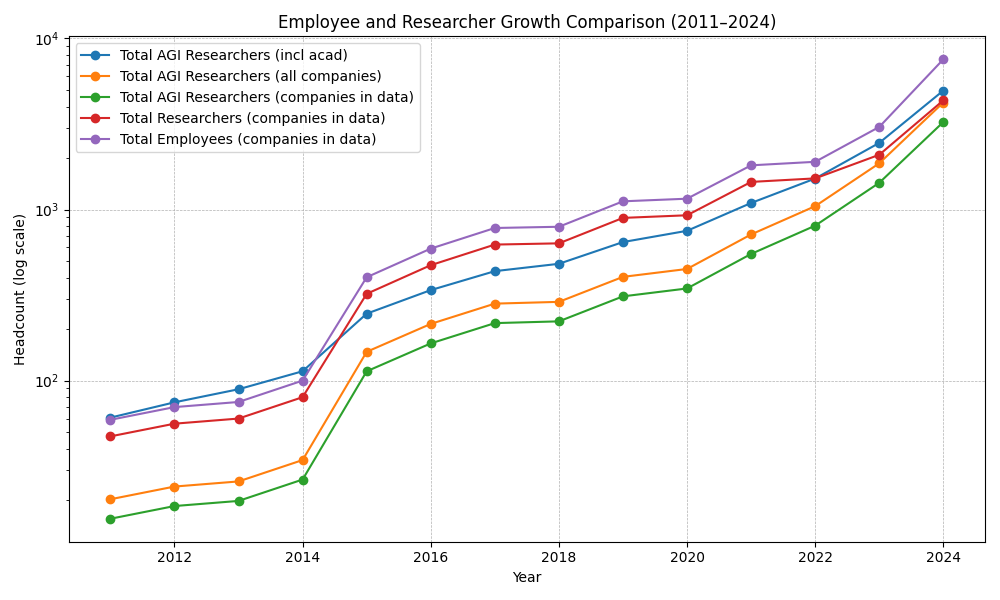
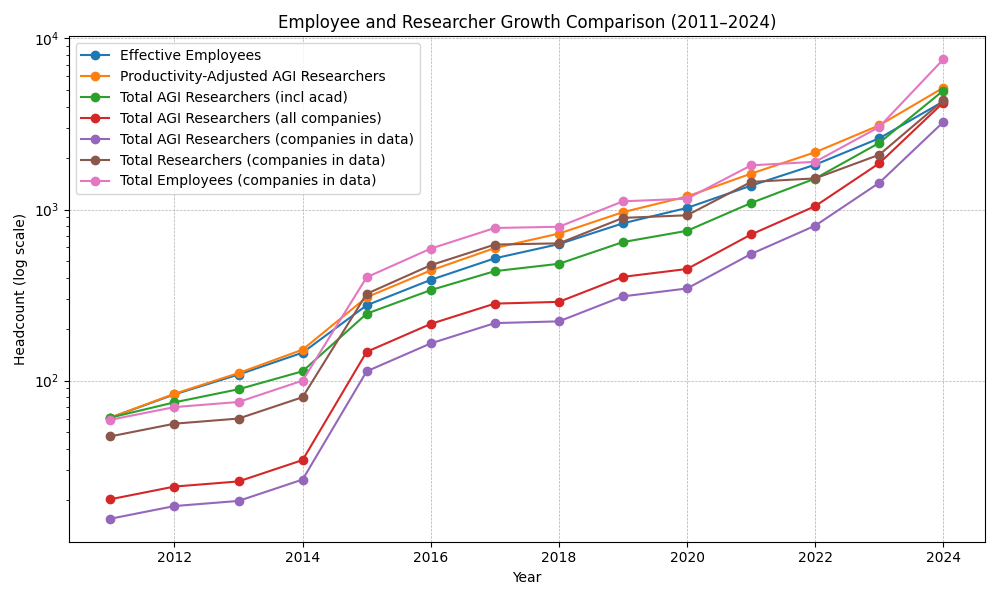
add quality adjustment

diff --git a/timelines_modeling_exploration/labor_growth_analysis.py b/timelines_modeling_exploration/labor_growth_analysis.py
@@ -62,6 +62,60 @@ agg['Academic_AGI'] = initial_acad * (1.25 ** (agg['Year'] - 2011))
 # Combine series
 agg['AGI_Researchers_Total'] = agg['AGI_Researchers_All_Companies'] + agg['Academic_AGI']
 
+# --- Step 4.5: Productivity-adjusted AGI researchers ---
+yearly_hires = pd.DataFrame(index=agg['Year'])
+
+# Corporate AGI hires
+corp_hires = df.groupby('Year')['AGI_Researcher_Increase'].sum()
+yearly_hires['Corp_AGI_Hires'] = corp_hires
+
+# Other AGI hires (non-cumulative)
+yearly_hires['Other_AGI_Hires'] = 0.3 * yearly_hires['Corp_AGI_Hires']
+
+# Academic AGI hires
+agg_indexed = agg.set_index('Year')
+yearly_hires['Academic_AGI_Hires'] = agg_indexed['Academic_AGI'].diff().fillna(agg_indexed['Academic_AGI'])
+
+yearly_hires = yearly_hires.fillna(0)
+yearly_hires['Total_AGI_Hires'] = yearly_hires.sum(axis=1)
+
+# Calculate productivity-adjusted workforce
+start_year = yearly_hires.index.min()
+
+# Base productivity for cohort hired in year `y` (decreases by 5% each year, starting from 2016)
+cohort_base_productivity = {year: 0.95**max(0, year - 2015) for year in yearly_hires.index}
+
+pa_workforce = []
+for t in yearly_hires.index:
+    effective_workforce_t = 0
+    for y in range(start_year, t + 1):
+        hires_in_y = yearly_hires.loc[y, 'Total_AGI_Hires']
+        # Productivity of cohort from year y, in year t (increases by 15% each year after hiring)
+        productivity_y_at_t = cohort_base_productivity[y] * (1.15**(t - y))
+        effective_workforce_t += hires_in_y * productivity_y_at_t
+    pa_workforce.append(effective_workforce_t)
+
+agg['PA_AGI_Researchers_Total'] = pa_workforce
+
+# Initialize cohort productivity
+yearly_hires = yearly_hires.sort_index()
+yearly_hires['Cohort_Productivity'] = 1.0
+for i in range(1, len(yearly_hires)):
+    yearly_hires.iloc[i, yearly_hires.columns.get_loc('Cohort_Productivity')] = yearly_hires.iloc[i-1, yearly_hires.columns.get_loc('Cohort_Productivity')] * 0.95
+
+# Compute effective employees
+effective = []
+for year, row in yearly_hires.iterrows():
+    eff = 0.0
+    for hire_year, hire_row in yearly_hires.iterrows():
+        if hire_year <= year:
+            age = year - hire_year
+            p0 = hire_row['Cohort_Productivity']
+            eff += hire_row['Total_AGI_Hires'] * p0 * (1.15 ** age)
+    effective.append(eff)
+agg['Effective_Employees'] = effective
+
+
 # --- Step 5: Compute CAGRs ---
 def compute_cagr(start, end, years):
     return (end / start) ** (1 / years) - 1 if years > 0 else float('nan')
@@ -72,7 +126,9 @@ series = [
     ('Total Researchers (companies in data)', 'Researchers_Corp'),
     ('Total AGI Researchers (companies in data)', 'AGI_Researchers_Corp'),
     ('Total AGI Researchers (all companies)', 'AGI_Researchers_All_Companies'),
-    ('Total AGI Reserarchers (incl acad)', 'AGI_Researchers_Total')
+    ('Total AGI Reserarchers (incl acad)', 'AGI_Researchers_Total'),
+    ('Productivity-Adjusted AGI Researchers', 'PA_AGI_Researchers_Total'),
+    ('Effective Employees', 'Effective_Employees'),
 ]
 cagr_results = []
 for label, col in series:
@@ -96,11 +152,9 @@ df.to_csv(os.path.join(output_dir, 'full_df.csv'), index=False)
 cagr_df.to_csv(os.path.join(output_dir, 'cagr_df.csv'), index=False)
 
 
-import pdb; pdb.set_trace()
-
 # --- Step 6: Output results ---
 print("\n=== Combined Headcounts by Year ===")
-print(agg[['Year', 'Employees', 'AGI_Researchers_All_Companies', 'Other_AGI_Researchers', 'AGI_Researchers_Total']])
+print(agg[['Year', 'Employees', 'AGI_Researchers_All_Companies', 'Other_AGI_Researchers', 'AGI_Researchers_Total', 'PA_AGI_Researchers_Total', 'Effective_Employees']])
 
 print("\n=== CAGR Comparison ===")
 print(cagr_df)
@@ -112,6 +166,8 @@ for col, label in [
     # ('Researchers_All', 'Researchers (incl acad)'),
     # ('AGI_Researchers_All', 'Total AGI Researchers (incl acad)'),
     # ('AGI_Researchers_Total', 'AGI Researchers + Others')
+    ('Effective_Employees', 'Effective Employees'),
+    ('PA_AGI_Researchers_Total', 'Productivity-Adjusted AGI Researchers'),
     ('AGI_Researchers_Total', 'Total AGI Researchers (incl acad)'),
     ('AGI_Researchers_All_Companies', 'Total AGI Researchers (all companies)'),
     ('AGI_Researchers_Corp', 'Total AGI Researchers (companies in data)'),
